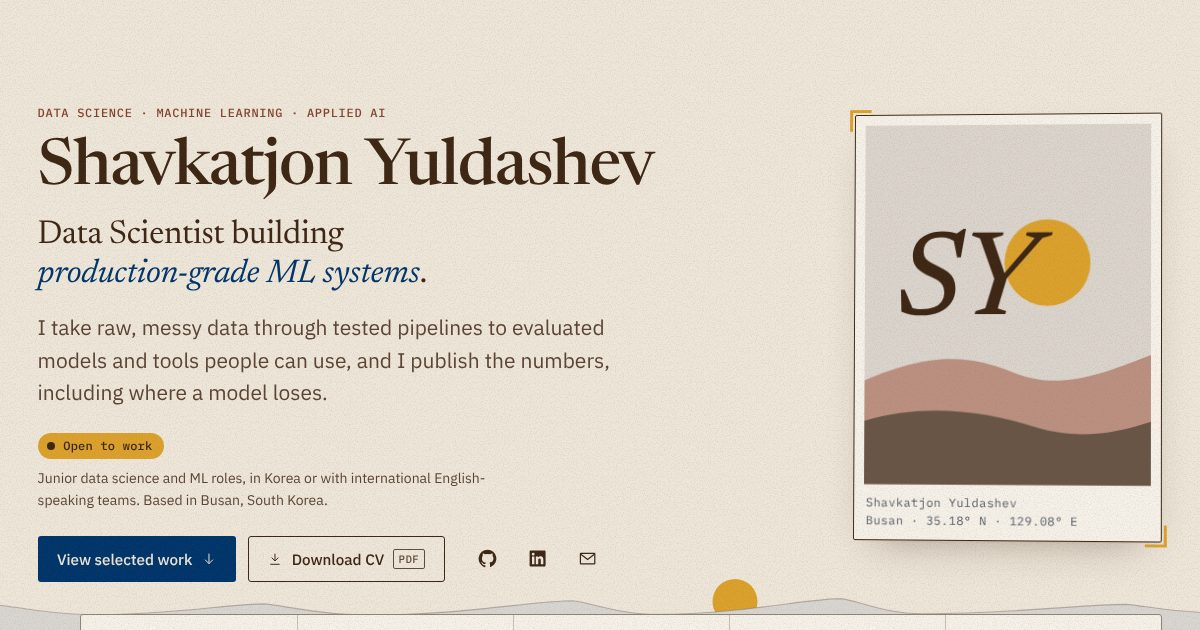
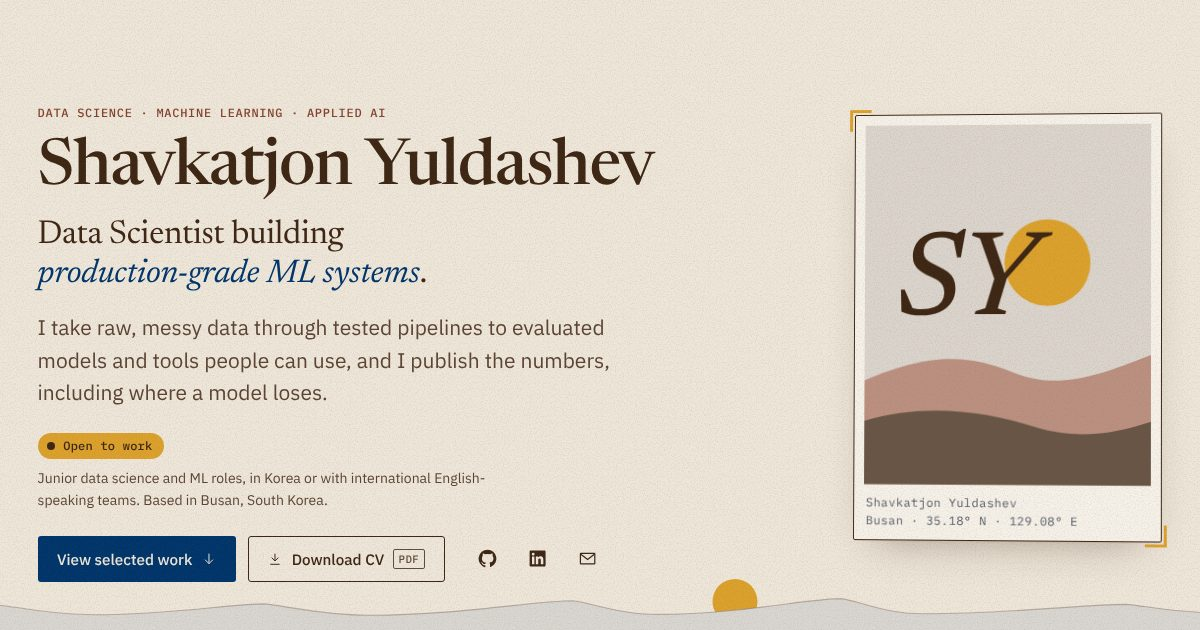
Replace the hero's metric strip with a "My stack" panel
The at-a-glance strip mixed five unrelated project numbers with no context.
The foot of the hero now shows what I work with, in six labelled groups
taken from the projects: languages and data, ML libraries, ML models, the
ML process as ordered steps, deploy and MLOps, and analytics/vision/AI.

- New heroStack in src/content/site.ts; the unused per-project strip field
  is removed.
- Semantic dl with lists; separators are decorative generated content, so
  screen readers hear the items, not the dots and arrows.
- Three columns on desktop, two on tablets, one on phones. The panel fits in
  a 1440x900 first screen.
- The share image hides the panel, which its 630 px frame would cut.

Verified: astro check 0 errors; verify.mjs passes (axe WCAG 2.2 AA, light
and dark, 8 routes).

Claude-Session: https://claude.ai/code/session_01E2Rdkbe9HWpWED4CFjuC1m

Changed region(s): [[0.0617, 0.9651, 0.9867, 1.0]]

diff --git a/src/content/site.ts b/src/content/site.ts
@@ -109,6 +109,27 @@ export const interests = [
   'Sports analytics, especially Formula 1',
 ];
 
+/**
+ * The hero's "My stack" panel: only what the projects below actually use, grouped so a recruiter
+ * can scan it in seconds. Evidence for each item: the toolkit's "Shown in" links and the case studies.
+ * `flow: true` renders the items as ordered steps (→) instead of a list (·).
+ */
+export const heroStack: { title: string; items: string[]; flow?: boolean }[] = [
+  { title: 'Languages & data', items: ['Python', 'SQL', 'pandas', 'NumPy', 'DuckDB', 'SQLite', 'Parquet'] },
+  { title: 'ML libraries', items: ['scikit-learn', 'statsmodels', 'PyTorch'] },
+  {
+    title: 'ML models',
+    items: ['Logistic regression', 'Random forest', 'Gradient boosting', 'Linear regression (WLS)', 'Neural network (MLP)'],
+  },
+  {
+    title: 'ML process',
+    flow: true,
+    items: ['Data cleaning', 'Feature engineering', 'Cross-validation', 'Baselines', 'Evaluation', 'Backtesting', 'Deployment'],
+  },
+  { title: 'Deploy & MLOps', items: ['FastAPI', 'Docker', 'Streamlit', 'pytest', 'GitHub Actions CI', 'Git'] },
+  { title: 'Analytics, vision & AI', items: ['matplotlib', 'd3.js', 'OpenCV', 'Tesseract OCR', 'LLM tool use (Claude API, Ollama)'] },
+];
+
 /* ------------------------------------------------------------------ */
 /* Projects                                                            */
 /* ------------------------------------------------------------------ */
@@ -157,7 +178,6 @@ export interface Project {
   contribution: string;
   result: string;
   metrics: { value: string; label: string }[];
-  strip: { value: string; label: string };
   methods: string[];
   stack: string[];
   links: Link[];
@@ -196,7 +216,6 @@ export const projects: Project[] = [
       { value: '296 / 374', label: 'Churners caught (recall 0.791)' },
       { value: '33', label: 'Test functions, run in CI' },
     ],
-    strip: { value: '0.842', label: 'test ROC-AUC' },
     methods: ['Logistic regression', 'Random forest', 'Gradient boosting', 'Stratified 5-fold CV', 'Model card'],
     stack: ['Python', 'pandas', 'scikit-learn', 'FastAPI', 'Streamlit', 'pytest', 'GitHub Actions'],
     links: [
@@ -304,7 +323,6 @@ export const projects: Project[] = [
       { value: '4.29 → 1.73', label: 'Avg. stars, on time → 8+ days late' },
       { value: 'r = 0.78', label: 'On-time rate vs. review, across states' },
     ],
-    strip: { value: '4.29 → 1.73', label: 'stars, on time → late' },
     methods: ['Recency segmentation', 'Cohort retention', 'Delivery-band analysis', 'Seller concentration'],
     stack: ['SQL (SQLite)', 'Python', 'pandas', 'matplotlib', 'd3.js', 'GitHub Pages'],
     links: [
@@ -411,7 +429,6 @@ export const projects: Project[] = [
       { value: '2.6 GB', label: 'Peak memory at full shape, down from 8.8 GB' },
       { value: '8', label: 'Data-quality checks gating the build' },
     ],
-    strip: { value: '59.1M rows', label: 'in 2.6 GB of memory' },
     methods: ['Star schema', 'Like-for-like YoY', 'Contribution analysis', 'Exception scoring', 'HHI concentration'],
     stack: ['Python', 'DuckDB SQL', 'Parquet', 'Make', 'Tableau (guide)'],
     links: [
@@ -506,7 +523,6 @@ export const projects: Project[] = [
       { value: '79.9%', label: 'Real results inside the 80% ranges' },
       { value: '129', label: 'Tests run in CI on every push' },
     ],
-    strip: { value: '0.548%', label: 'race-pace error, unseen races' },
     methods: ['Walk-forward backtest', 'Split-conformal ranges', 'Monte Carlo strategy', 'LLM tool use'],
     stack: ['Python', 'DuckDB SQL', 'statsmodels', 'FastAPI', 'Docker', 'Claude API · Ollama', 'pytest'],
     links: [
@@ -618,7 +634,6 @@ export const projects: Project[] = [
       { value: '0.3 px', label: 'Corner error, SIFT + RANSAC' },
       { value: '+2.94°', label: 'Skew recovered of a true +3.00°' },
     ],
-    strip: { value: '12 / 12', label: 'fields read (sample)' },
     methods: ['Canny + contours', 'Homography', 'ORB / SIFT + RANSAC', 'Tesseract OCR'],
     stack: ['Python', 'OpenCV', 'NumPy', 'Tesseract (kor/eng)', 'matplotlib'],
     links: [],

diff --git a/README.md b/README.md
@@ -44,6 +44,7 @@ Run `npm run assets` and rebuild after changing content, so the PDF résumé and
 Everything personal lives in `src/content/site.ts`:
 
 - `identity`: name, positioning line, statement, location and availability (`availability.open`).
+- `heroStack`: the "My stack" panel at the foot of the hero, in six groups (languages and data, ML libraries, ML models, ML process, deploy and MLOps, analytics/vision/AI). List only tools a project actually uses; the toolkit section shows where.
 - `social`: the only place external profile URLs are defined.
 - `projects`: four primary projects (Telco churn, Olist SQL, Retail BI, DPEC Formula 1, marked *In development*) and one secondary computer-vision project. Each case study has six sections (problem; objectives and questions; data and methodology; technical implementation; findings and verified results; limitations and lessons) plus the repository and demo links. Text can contain `` `code` `` in backticks; it's rendered as `<code>`, never as HTML.
 - `archive` (smaller work, including Lotte World), `notes` (seven field notes), `toolkit` (demonstrated / learning / open source studied, each demonstrated tool linked to the projects that show it), `education`, `experience`, `languages`, `targetRoles`, `interests`.

diff --git a/docs/TESTING.md b/docs/TESTING.md
@@ -38,6 +38,10 @@ Mobile LCP is the hero statement. Most of its delay is the first-visit intro cho
 13. A retail metric wrapped mid-value ("8.8 → 2.6 / GB"). It now reads "2.6 GB, down from 8.8 GB".
 14. The forced-3D test mode (`?3d=force`) was killed by the 250 ms first-frame budget on software GL, so the 3D hero couldn't be inspected. The budget still applies to real visitors; it is skipped only in that test mode.
 
+### Follow-up: hero stack panel (2026-11-12)
+
+The five-metric "At a glance" strip mixed unrelated numbers without context, so it was replaced with a "My stack" panel: six labelled groups of tools, models and the ML process, all taken from the projects. It fits inside the first 1440×900 screen (hero height 900 px), stacks to one column on mobile, and `verify.mjs` passes again (axe WCAG 2.2 AA, light and dark). The share image hides the panel, which the 630 px frame would cut.
+
 ### Not tested / gaps (this run)
 
 - External links were not fetched (network policy). In particular the DPEC Render app, the Streamlit demo and LinkedIn could not be opened from here.
